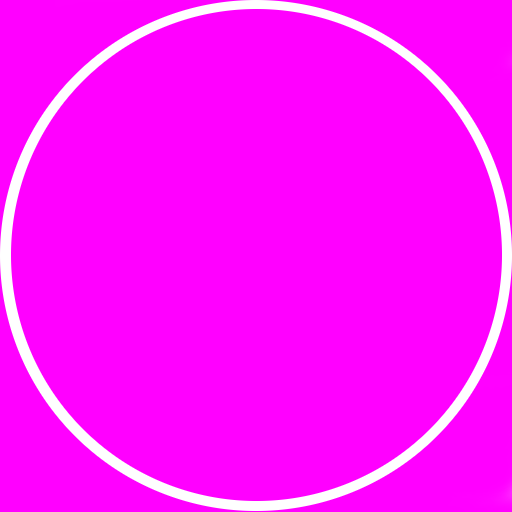
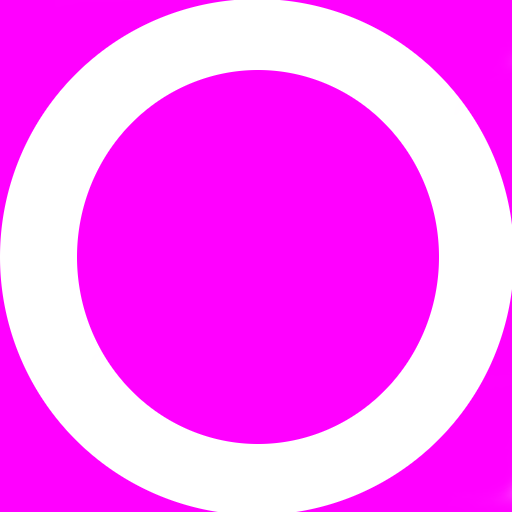
tesselation ftw

diff --git a/a5-multiman/src/gameobject.cpp b/a5-multiman/src/gameobject.cpp
@@ -6,6 +6,7 @@
 Obj::Obj(string name, int id, string filename, shader_ref shader):id(id),name(name),shader(shader){
     ObjLoader loader(name.c_str(), filename.c_str());
     loader.TranslateToOrigin();
+
     loader.pos_and_norm_shader = shader;
     loader.pos_norm_and_tc_shader = shader;
     loader.default_shader = shader;
@@ -72,6 +73,10 @@ void ObjHandler::addObj(string name, string filename, shader_ref shader){
 
 void ObjHandler::addObj_withScale(string name, string filename, shader_ref shader, vec3f scale){
     objs.push_back(Obj(name,objs.size(),filename,shader,scale));
+}
+
+void ObjHandler::addMeshObj(string name, mesh_ref mesh, shader_ref shader, texture_ref tex){
+    objs.push_back(Obj(name, objs.size(), mesh, tex, shader));
 }
 
 Obj* ObjHandler::getObjByID(int id){
@@ -169,7 +174,7 @@ void GameObject::draw(){
 //TREE
 Tree::Tree(Obj *obj, string name, int x, int y, float height): GameObject(obj,name, find_shader("pos+norm+tc"), height){
     identifier = 't';
-    m_pos = vec2i(x,y);
+    m_pos = vec2f(x,y);
 
     m_model.col_major[3 * 4 + 0] = m_pos.x*render_settings::tile_size_x;
     m_model.col_major[3 * 4 + 1] = m_center.y + m_height;
@@ -190,9 +195,10 @@ Building::Building(Obj *obj,Obj *selection_circle, string name, int x, int y, un
 
 {
 
+    selection_circle->mesh;
 	unit_count = 0;
     identifier = 'b';
-    m_pos = vec2i(x,y);
+    m_pos = vec2f(x,y);
 
     m_model.col_major[3 * 4 + 0] = m_pos.x*render_settings::tile_size_x;
     m_model.col_major[3 * 4 + 1] = m_center.y + m_height;
@@ -236,34 +242,38 @@ unsigned int Building::get_id(){
 }
 
 void Building::draw_selection_circle(){
+
     vec3f color(1.0f,0,0);
-    bind_shader(selection_circle->shader);
+    bind_shader(find_shader("selection_circle_shader"));
 
     matrix4x4f tmp;
     make_unit_matrix4x4f(&tmp);
 
     tmp = tmp*m_model;
 
-    tmp.col_major[3 * 4 + 1] +=  0.5f;
 
-    tmp.col_major[0 * 4 + 0] =  m_model.col_major[0 * 4 + 0] * 2*m_size;
-    tmp.col_major[1 * 4 + 1] = m_model.col_major[1 * 4 + 1] * 2*m_size;
-    tmp.col_major[2 * 4 + 2] = m_model.col_major[2 * 4 + 2] * 2*m_size;
 
-    int loc = glGetUniformLocation(gl_shader_object(selection_circle->shader), "proj");
+    tmp.col_major[0 * 4 + 0] =  m_model.col_major[0 * 4 + 0] * (render_settings::tile_size_x+2) * m_size;
+    tmp.col_major[1 * 4 + 1] =  m_model.col_major[1 * 4 + 1] * (render_settings::tile_size_x+2) * m_size;
+    tmp.col_major[2 * 4 + 2] =  m_model.col_major[2 * 4 + 2] * (render_settings::tile_size_y+2) * m_size;
+    tmp.col_major[3 * 4 + 0] =  m_pos.x * render_settings::tile_size_x - ((render_settings::tile_size_x+2) * m_size )/2.0f * m_center.x;
+    tmp.col_major[3 * 4 + 1] +=  0.0f;
+    tmp.col_major[3 * 4 + 2] =  m_pos.y * render_settings::tile_size_y - ((render_settings::tile_size_y+2) * m_size )/2.0f *  m_center.z;
+
+    int loc = glGetUniformLocation(gl_shader_object(find_shader("selection_circle_shader")), "proj");
     glUniformMatrix4fv(loc, 1, GL_FALSE, projection_matrix_of_cam(current_camera())->col_major);
 
-    loc = glGetUniformLocation(gl_shader_object(selection_circle->shader), "view");
+    loc = glGetUniformLocation(gl_shader_object(find_shader("selection_circle_shader")), "view");
     glUniformMatrix4fv(loc, 1, GL_FALSE, gl_view_matrix_of_cam(current_camera())->col_major);
 
-    loc = glGetUniformLocation(gl_shader_object(selection_circle->shader), "model");
+    loc = glGetUniformLocation(gl_shader_object(find_shader("selection_circle_shader")), "model");
     glUniformMatrix4fv(loc, 1, GL_FALSE, tmp.col_major);
 
-    loc = glGetUniformLocation(gl_shader_object(selection_circle->shader), "color");
+    loc = glGetUniformLocation(gl_shader_object(find_shader("selection_circle_shader")), "color");
     glUniform3fv(loc,1,(float *) &color);
 
-    bind_texture(selection_circle->tex, 0);
-    loc = glGetUniformLocation(gl_shader_object(selection_circle->shader), "tex");
+    bind_texture(find_texture("selection_circle"), 0);
+    loc = glGetUniformLocation(gl_shader_object(find_shader("selection_circle_shader")), "tex");
     glUniform1i(loc, 0);
 
     bind_mesh_to_gl(selection_circle->mesh);
@@ -271,13 +281,17 @@ void Building::draw_selection_circle(){
     draw_mesh(selection_circle->mesh);
 
     unbind_mesh_from_gl(selection_circle->mesh);
-    unbind_shader(selection_circle->shader);
+    unbind_shader(find_shader("selection_circle_shader"));
 
+}
+
+void Building::change_owner(unsigned int owner){
+    m_owner = owner;
 }
 
 //UNITGROUP
 
-UnitGroup::UnitGroup(Obj *obj, simple_heightmap *sh, string name, vec2i start, vec2i end, unsigned int owner, unsigned int unit_count, float time_to_rech_end, float height, unsigned int m_id):
+UnitGroup::UnitGroup(Obj *obj, simple_heightmap *sh, string name, vec2f start, vec2f end, unsigned int owner, unsigned int unit_count, float time_to_rech_end, float height, unsigned int m_id):
     GameObject(obj,name,find_shader("pos+norm+tc"), height),
     m_owner(owner), m_start(start), m_end(end),
     m_unit_count(unit_count), m_sh(sh), m_id(m_id),
@@ -299,7 +313,7 @@ UnitGroup::UnitGroup(Obj *obj, simple_heightmap *sh, string name, vec2i start, v
     m_modelmatrices.push_back(testUnit);
     m_spawned++;
 }
-void UnitGroup::force_position(vec2i pos){
+void UnitGroup::force_position(vec2f pos){
     m_pos = pos;
 
     m_model.col_major[3 * 4 + 0] = m_pos.x*render_settings::tile_size_x;
@@ -315,12 +329,12 @@ void UnitGroup::update_model_matrices(){
 
 
         m_modelmatrices[i].col_major[3 * 4 + 0] = m_model.col_major[3 * 4 + 0] + 2*cos(2*M_PI * ((float) i/(float)m_spawned));
-        m_modelmatrices[i].col_major[3 * 4 + 1] = m_model.col_major[3 * 4 + 1] + m_sh->get_height(m_model.col_major[3 * 4 + 0] + 2*cos(2*M_PI * ((float) i/(float)m_spawned)), m_model.col_major[3 * 4 + 2] + 2*sin(2*M_PI * ((float) i/(float)m_spawned)) );
+        m_modelmatrices[i].col_major[3 * 4 + 1] = m_center.y + m_sh->get_height(m_model.col_major[3 * 4 + 0] + 2*cos(2*M_PI * ((float) i/(float)m_spawned)), m_model.col_major[3 * 4 + 2] + 2*sin(2*M_PI * ((float) i/(float)m_spawned)) );
         m_modelmatrices[i].col_major[3 * 4 + 2] = m_model.col_major[3 * 4 + 2] + 2*sin(2*M_PI * ((float) i/(float)m_spawned));
     }
 }
 
-void UnitGroup::move_to(vec2i pos, float time_to_reach){
+void UnitGroup::move_to(vec2f pos, float time_to_reach){
   //  force_position(m_end);
    // force_position(m_end);
 	vec2f pos_1 = vec2f(m_model.col_major[3 * 4 + 0], m_model.col_major[3 * 4 + 2]);

diff --git a/a5-multiman/src/simple_heightmap.cpp b/a5-multiman/src/simple_heightmap.cpp
@@ -40,20 +40,33 @@ void simple_heightmap::init( const std::string filename, int width, int height){
     m_shader = find_shader("heightmap_shader");
     make_unit_matrix4x4f(&m_model);
     std::vector<unsigned int> index;
+//    for(int i = 0; i < m_height-1; ++i){
+//        for(int j = 0; j < m_width; ++j){
+//            if(i%2 == 0){
+//            index.push_back(i + j*m_height);
+//            index.push_back((i+1)  + j*m_height);
+//            } else {
+//                index.push_back((i+1) + (m_width -j -1) * m_height);
+//                index.push_back(i+ (m_width-j-1)*m_height)  ;
+
+//            }
+
+//        }
+//    }
+
     for(int i = 0; i < m_height-1; ++i){
-        for(int j = 0; j < m_width; ++j){
-            if(i%2 == 0){
+        for(int j = 0; j < m_width-1; ++j){
+
             index.push_back(i + j*m_height);
             index.push_back((i+1)  + j*m_height);
-            } else {
-                index.push_back((i+1) + (m_width -j -1) * m_height);
-                index.push_back(i+ (m_width-j-1)*m_height)  ;
+            index.push_back(i+1 + (j+1)*m_height);
 
-            }
+            index.push_back(i+1 + (j+1)*m_height);
+            index.push_back(i + (j+1)*m_height);
+            index.push_back(i + (j)*m_height);
 
         }
     }
-
 
     bind_mesh_to_gl(m_mesh);
     add_vertex_buffer_to_mesh(m_mesh, "in_pos", GL_FLOAT, m_width*m_height, 3, (float*) pos.data() , GL_STATIC_DRAW);
@@ -64,6 +77,7 @@ void simple_heightmap::init( const std::string filename, int width, int height){
 }
 
 float simple_heightmap::get_height(float x, float y){
+    if (x < 0 || y < 0 || x > m_width || y > m_height ) return 0;
     vec2i pos1 ((int) x, (int) y);
     vec2i pos2 ((int) x + 1, (int) y);
     vec2i pos3 ((int) x, (int) y + 1 );
@@ -111,10 +125,18 @@ void simple_heightmap::draw(){
     loc = glGetUniformLocation(gl_shader_object(m_shader), "snow");
     glUniform1i(loc, 3);
 
+    loc = glGetUniformLocation(gl_shader_object(m_shader), "CamPos");
+    glUniform3f(loc,gl_view_matrix_of_cam(current_camera())->col_major[3 *4 + 0],
+                gl_view_matrix_of_cam(current_camera())->col_major[3 *4 + 1],
+                gl_view_matrix_of_cam(current_camera())->col_major[3 *4 + 2]);
 
+    loc = glGetUniformLocation(gl_shader_object(m_shader), "light_dir");
+    glUniform3f(loc, 0.7, 1.2,0.3);
+    loc = glGetUniformLocation(gl_shader_object(m_shader), "light_col");
+    glUniform3f(loc, 1,1,1);
     bind_mesh_to_gl(m_mesh);
-
-    draw_mesh_as(m_mesh,GL_TRIANGLE_STRIP);
+    glPatchParameteri(GL_PATCH_VERTICES, 3);
+    draw_mesh_as(m_mesh,GL_PATCHES);
 
     unbind_mesh_from_gl(m_mesh);
     unbind_shader(m_shader);

diff --git a/a5-multiman/src/gameobject.h b/a5-multiman/src/gameobject.h
@@ -38,6 +38,7 @@ public:
     void addObj(string name, string filename, shader_ref shader);
     //adds .obj with custom scale
     void addObj_withScale(string name, string filename, shader_ref shader, vec3f scale);
+    void addMeshObj(string name, mesh_ref mesh, shader_ref shader, texture_ref tex);
     Obj *getObjByName(string name);
     Obj *getObjByID(int id);
     Obj *get_selection_circle();
@@ -57,7 +58,7 @@ public:
     void set_model_matrix(matrix4x4f new_model);
     matrix4x4f get_model_matrix();
     void set_height(float height);
-    vec2i get_pos(){
+    vec2f get_pos(){
         return m_pos;
     }
 
@@ -67,7 +68,7 @@ protected:
     char identifier;
     Obj *m_obj;
     matrix4x4f m_model;
-    vec2i m_pos;
+    vec2f m_pos;
     shader_ref m_shader;
     vec3f m_center;
     vector<texture_ref> textures;
@@ -91,6 +92,7 @@ public:
 	unsigned int get_id();
 	void update_unit_count(int count);
 	int get_unit_count();
+    void change_owner(unsigned int owner);
 
 private:
     unsigned int m_owner;
@@ -105,11 +107,11 @@ private:
 class UnitGroup: public GameObject{
 public:
 
-    UnitGroup(Obj *obj,simple_heightmap *sh, string name, vec2i start, vec2i end, unsigned int owner, unsigned int unit_count, float time_to_rech_end, float height, unsigned m_id);
+    UnitGroup(Obj *obj,simple_heightmap *sh, string name, vec2f start, vec2f end, unsigned int owner, unsigned int unit_count, float time_to_rech_end, float height, unsigned m_id);
     void update();
     void draw();
-    void move_to(vec2i pos, float time_to_reach);
-    void force_position(vec2i pos);
+    void move_to(vec2f pos, float time_to_reach);
+    void force_position(vec2f pos);
 
     unsigned int m_id;
     unsigned int m_unit_count;
@@ -126,7 +128,7 @@ private:
     simple_heightmap *m_sh;
     wall_time_timer m_timer;
     wall_time_timer m_spawn_timer;
-    vec2i m_start,m_end;
+    vec2f m_start,m_end;
     vec2f m_view_dir;
     float m_time_to_reach_end;
     vector<matrix4x4f> m_modelmatrices;

diff --git a/a5-multiman/src/game.cpp b/a5-multiman/src/game.cpp
@@ -7,7 +7,7 @@ Game::Game(ObjHandler *objhandler, simple_heightmap *sh, client_message_reader *
 }
 
 void Game::add_building(string name, int size, int x, int y, unsigned int id){
-    m_buildings.push_back(Building(m_objhandler->getObjByName(name), m_objhandler->get_selection_circle(),name,x,y, 0,size, m_sh->get_height(x,y), id));
+    m_buildings.push_back(Building(m_objhandler->getObjByName(name), m_objhandler->getObjByName("selection_circle"),name,x,y, 0,size, m_sh->get_height(x,y), id));
 }
 void Game::update_building_unit_count(unsigned int id, unsigned int unit_count){
     for(int i = 0; i < m_buildings.size(); i++){
@@ -39,7 +39,7 @@ void Game::update_unit_group(unsigned int x, unsigned int y, unsigned int troupI
 	
     for(int i = 0; i < m_unitgroups.size(); ++i){
 		if(troupId == m_unitgroups[i].m_id){
-            m_unitgroups[i].move_to(vec2i(x, y), time);
+            m_unitgroups[i].move_to(vec2f(x, y), time);
 			return;
 		}
 	}
@@ -48,8 +48,8 @@ void Game::update_unit_group(unsigned int x, unsigned int y, unsigned int troupI
 void Game::add_unit_group(unsigned int sourceId, unsigned int destinationId, unsigned int count, unsigned int troupId){
 	Building *source = getBuilding(sourceId);
 	Building *destination = getBuilding(destinationId);
-	vec2i start = source->get_pos();
-    vec2i end = source->get_pos();
+    vec2f start = source->get_pos();
+    vec2f end = source->get_pos();
 	
     cout << "spawning enemies at: " << start.x << "," << start.y << " count: " << count << endl;
     m_unitgroups.push_back(UnitGroup(m_objhandler->getObjByName("tree"),m_sh,"bomb",start,end,0,count, 10000, m_sh->get_height(start.x, start.y), troupId));
@@ -93,9 +93,9 @@ void Game::draw(){
     for(int i = 0; i < m_unitgroups.size(); ++i){
         m_unitgroups[i].draw();
     }
- //   if (m_selected != nullptr){
-  //      m_selected->draw_selection_circle();
-  //  }
+    if (m_selected != 0){
+       m_selected->draw_selection_circle();
+    }
 
 }
 

diff --git a/a5-multiman/src/main.cpp b/a5-multiman/src/main.cpp
@@ -344,6 +344,19 @@ void actual_main() {
         objhandler->addObj("tree", "./render-data/models/tree.obj", find_shader("pos+norm+tc"));
         objhandler->addObj("building_lot", "./render-data/models/building_lot.obj", find_shader("pos+norm+tc"));
         objhandler->addObj("status_bar", "./render-data/models/menu.obj", find_shader("pos+norm+tc"));
+
+
+        mesh_ref mesh = make_mesh("selection_circle",2);
+        vector<vec3f> pos = { vec3f(0,0,0) , vec3f(1,0,0), vec3f(1,0,1) , vec3f(0,0,1) };
+        vector<vec2f> tc = { vec2f(0,0), vec2f(0,1), vec2f(1,1), vec2f(1,0) } ;
+        vector<unsigned int> index =  { 0 ,1 ,2 , 2 ,3 ,0 };
+        bind_mesh_to_gl(mesh);
+        add_vertex_buffer_to_mesh(mesh, "in_pos", GL_FLOAT, 4, 3, (float*) pos.data() , GL_STATIC_DRAW);
+        add_vertex_buffer_to_mesh(mesh, "in_tc", GL_FLOAT, 4, 2, (float*) tc.data() , GL_STATIC_DRAW);
+       // add_vertex_buffer_to_mesh(m_mesh, "in_normal", GL_FLOAT, m_width*m_height, 3,nullptr, GL_STATIC_DRAW );
+        add_index_buffer_to_mesh(mesh, index.size(), (unsigned int *) index.data(), GL_STATIC_DRAW);
+        unbind_mesh_from_gl(mesh);
+        objhandler->addMeshObj("selection_circle",mesh,find_shader("selection_circle_shader"),find_texture("selection_circle.png") );
       //  objhandler->addObj("bomb","./render-data/models/bbm.obj", find_shader("pos+norm+tc"));
 
     sh = new simple_heightmap();

diff --git a/a5-multiman/src/game.h b/a5-multiman/src/game.h
@@ -32,7 +32,7 @@ public:
 private:
    ObjHandler *m_objhandler;
    simple_heightmap *m_sh;
-   Building *m_selected;
+   Building *m_selected = nullptr;
    vector<Tree> m_trees;
    vector<Building> m_buildings;
    vector<UnitGroup> m_unitgroups;
